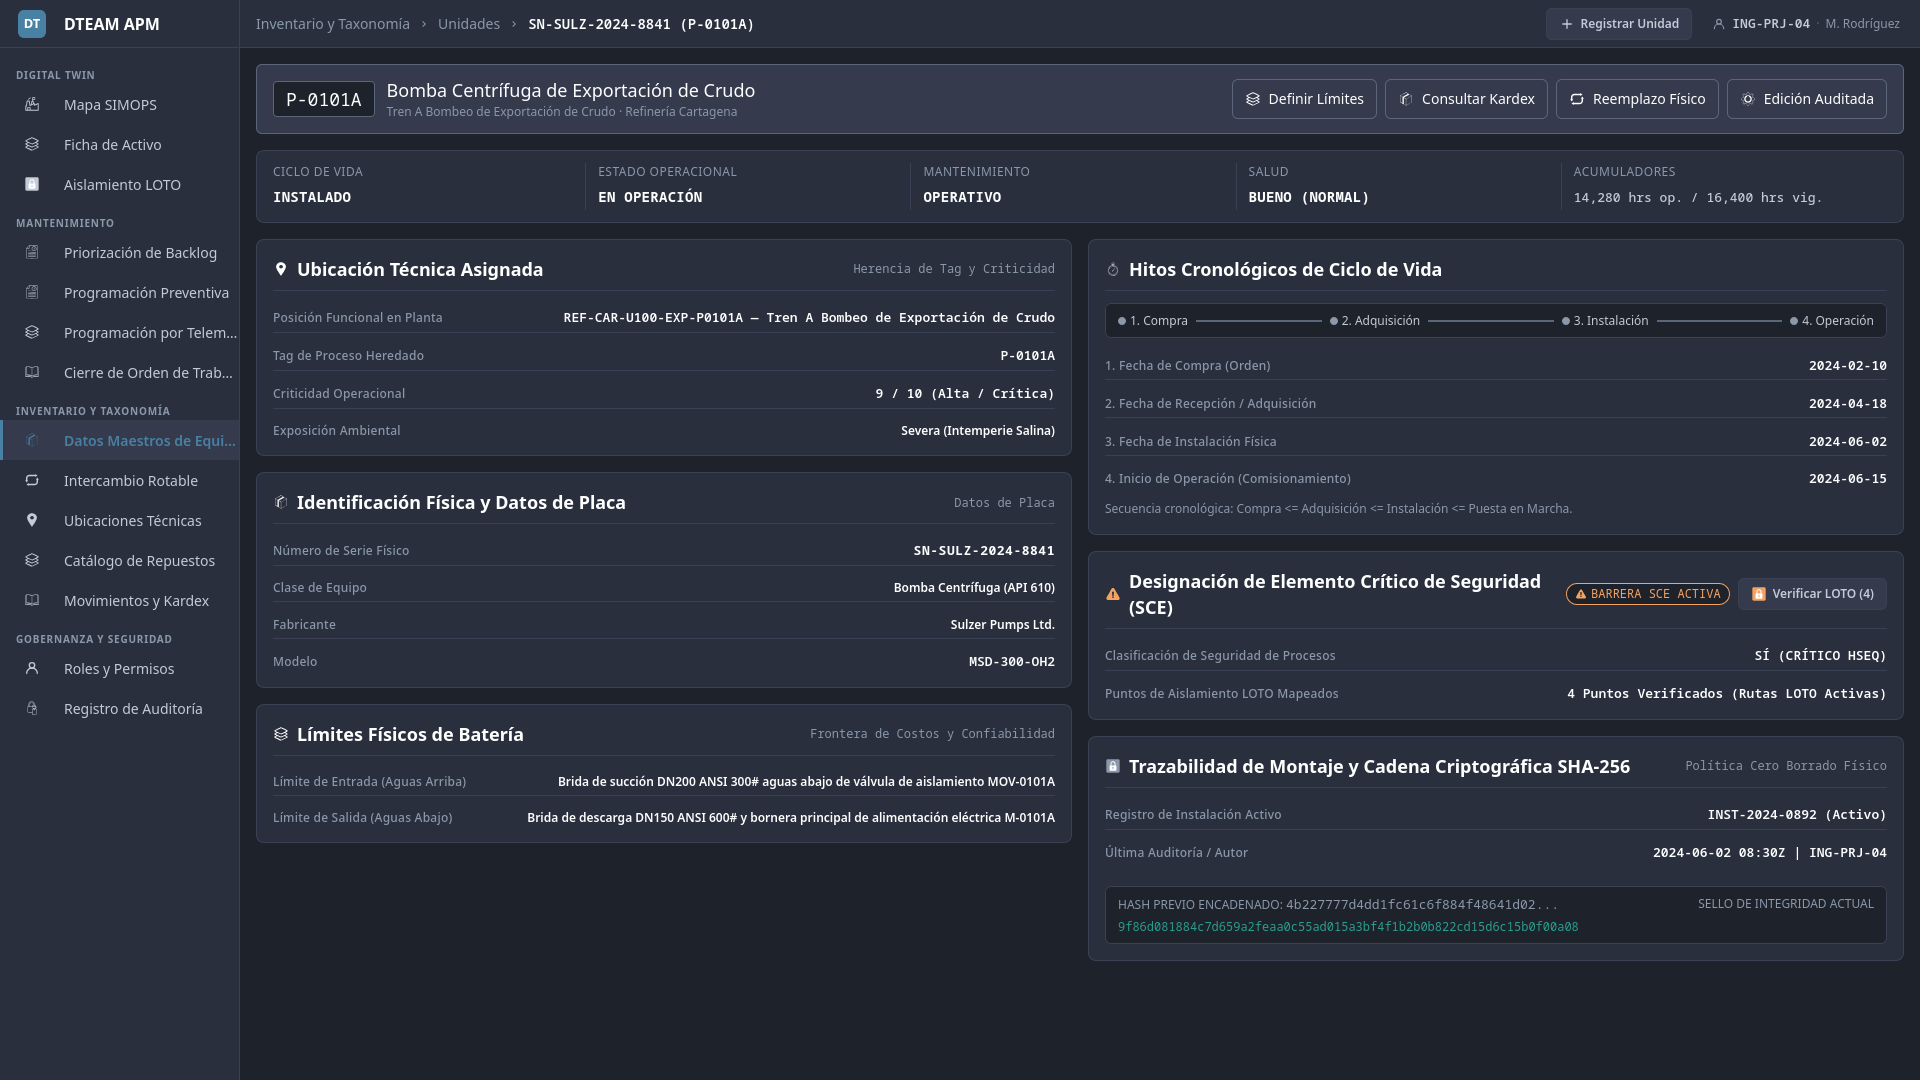
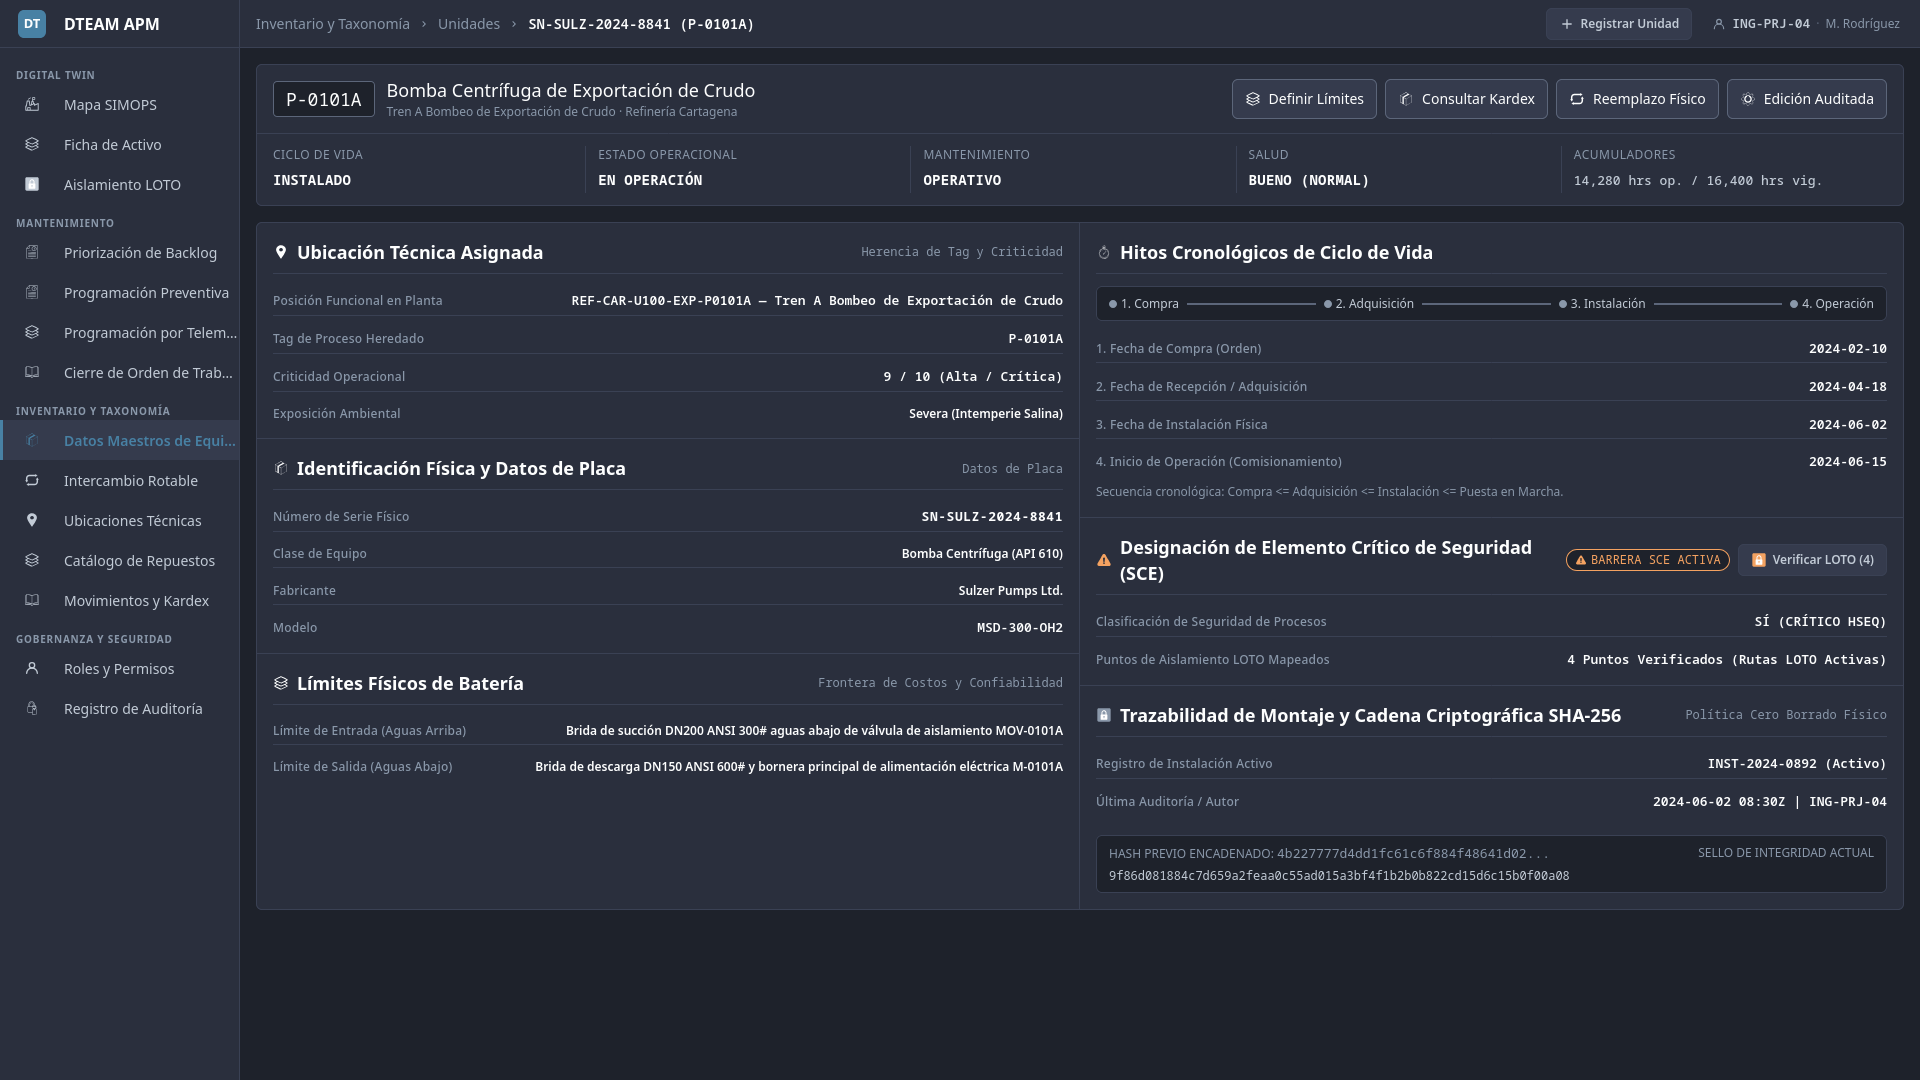
docs(ui-ux): sanitize SCR-INV-005 section 3 inventory and document continuous datasheet layout

diff --git a/ui-ux/screens/inv/SCR-INV-005.md b/ui-ux/screens/inv/SCR-INV-005.md
@@ -54,14 +54,14 @@ status: In Review
 | ID | Control / Component | Visual Role / Content | Semantic Token | Architectural Role & Reference |
 | :--- | :--- | :--- | :--- | :--- |
 | `CMP-01` | Portal Shell & Navigation Sidebar | Collapsible module navigation sidebar and mobile off-canvas navigation drawer | Surface: `--dt-color-surface-card`<br>Border: `--dt-color-border-subtle` | Hosts global module navigation per [DT-UI-NAV-DOC-001](../../DT-UI-NAV-DOC-001.md), highlighting "Equipment Master Data" under the Inventory domain. Responsive behavior in §8. |
-| `CMP-02` | Master Card Header & Mode Switcher | Integrated breadcrumb dropdown selector, mobile menu trigger, user session badge, and workstation action button | Surface: `--dt-color-surface-card`<br>Border: `--dt-color-border-subtle`<br>Typography: `--dt-font-h1` | Integrates the catalog unit selector directly into the active breadcrumb segment (`SN-SULZ-2024-8841 (P-0101A)`) following the seamless VS Code text-link pattern (underline and color transition on hover/focus without container box or chevron) on the left, and on the right: action button with plus icon `[Registrar Unidad]`, and operator session badge (`ING-PRJ-04 · M. Rodríguez`) without loose mode text. Responsive behavior in §8. Detailed in §5.1 and §5.2. |
-| `CMP-03` | Contextual Handoff Action Toolbar | Level 3 cross-screen navigation action bar | Surface: `--dt-color-surface-raised`<br>Border: `--dt-color-border-panel`<br>Radius: `--dt-radius-md` | Exposes normative transitions defined in [DT-UI-NAV-DOC-001 §5](../../DT-UI-NAV-DOC-001.md#5-transition-matrix-and-access-control-rbac): `Define Boundaries` ([SCR-MTTO-029](../mtto/SCR-MTTO-029.md)), `Check Kardex` ([SCR-INV-006](SCR-INV-006.md)), `Physical Replacement` ([SCR-INV-025](SCR-INV-025.md)), and `Audited Edit`. Displays primary asset tag, clean equipment title, and concise functional location hierarchy context without repeating nameplate attributes. Detailed in §5.2. |
-| `CMP-04` | Four-Dimensional Status Strip | Dynamic operational, lifecycle, maintenance, and health status indicators | Surface: `--dt-color-surface-card`<br>Typography: `--dt-font-caption`, `--dt-font-mono-data` | Renders the four orthogonal state dimensions defined in [DT-DM-DOC-001 §2.1](../../../domain-models/class/DT-DM-DOC-001.md#21-state-division-in-equipmentunit) (`CICLO DE VIDA`, `ESTADO OPERACIONAL`, `MANTENIMIENTO`, `SALUD`) with single-line labels, displaying normal states as structured bold monospace text without pill capsule borders (`BADGE-001`), and reserving border pills strictly for anomalous states. Operating and Surveillance hours render alongside in monospace data text (`--dt-font-mono-data`). Detailed in §5.1. |
-| `CMP-05` | Functional Location Linkage Card | Hierarchical Level 5 location selector, storage custody, and inherited process metadata | Surface: `--dt-color-surface-card`<br>Border: `--dt-color-border-subtle`<br>Typography: `--dt-font-mono-data` | Links the Level 6 Equipment Unit to an ISO 14224 Level 5 Functional Location or displays active warehouse custody when in storage. Displays inherited process Tag Number, operational criticality, environmental exposure, and single-occupancy validation state. Detailed in §5.3.3. |
-| `CMP-06` | Nameplate & Taxonomic Identity Card | Physical identification and ISO 14224 class specification fields | Surface: `--dt-color-surface-card`<br>Border: `--dt-color-border-subtle`<br>Text: `--dt-color-text-primary`, `--dt-color-text-muted` | Captures and displays Serial Number (with optical barcode scan trigger on tablet), Manufacturer, Model, and Equipment Class. In Inspection Mode, mandatory asterisks (`*`) and input underline borders (`border-bottom`) are suppressed to avoid pseudo-input confusion per Anti-Badge-Inflation rules. Detailed in §5.3.1. |
+| `CMP-02` | Master Card Header & Mode Switcher | Integrated breadcrumb dropdown selector, mobile menu trigger, user session badge, and workstation action button | Surface: `--dt-color-surface-card`<br>Border: `--dt-color-border-subtle`<br>Typography: `--dt-font-h1` | Integrates the catalog unit selector directly into the active breadcrumb segment using a text-link popover menu pattern on the left, and hosts the onboarding mode switcher and operator session badge on the right. Detailed in §5.1, §5.2, and §8. |
+| `CMP-03` | Contextual Handoff Action Toolbar | Level 3 cross-screen navigation action bar | Surface: `--dt-color-surface-card`<br>Border: `--dt-color-border-subtle`<br>Radius: `--dt-radius-md` | Exposes normative transitions defined in [DT-UI-NAV-DOC-001 §5](../../DT-UI-NAV-DOC-001.md#5-transition-matrix-and-access-control-rbac): `Define Boundaries` ([SCR-MTTO-029](../mtto/SCR-MTTO-029.md)), `Check Kardex` ([SCR-INV-006](SCR-INV-006.md)), `Physical Replacement` ([SCR-INV-025](SCR-INV-025.md)), and `Audited Edit`. Fused with `CMP-04` into a single unified top header sheet separated by a subtle internal divider. Detailed in §5.2. |
+| `CMP-04` | Four-Dimensional Status Strip | Dynamic operational, lifecycle, maintenance, and health status indicators | Surface: `--dt-color-surface-card`<br>Typography: `--dt-font-caption`, `--dt-font-mono-data` | Renders the four orthogonal state dimensions defined in [DT-DM-DOC-001 §2.1](../../../domain-models/class/DT-DM-DOC-001.md#21-state-division-in-equipmentunit) (Lifecycle, Operational, Maintenance, and Health) alongside operating and surveillance hour accumulators inside the unified top header sheet. Detailed in §5.1 and §6. |
+| `CMP-05` | Functional Location Linkage Card | Hierarchical Level 5 location selector, storage custody, and inherited process metadata | Surface: `--dt-color-surface-card`<br>Border: `--dt-color-border-subtle`<br>Typography: `--dt-font-mono-data` | Links the Level 6 Equipment Unit to an ISO 14224 Level 5 Functional Location or displays active warehouse custody when in storage. Displays inherited process Tag Number, operational criticality, environmental exposure, and single-occupancy validation state within the continuous datasheet layout. Detailed in §5.3.3. |
+| `CMP-06` | Nameplate & Taxonomic Identity Card | Physical identification and ISO 14224 class specification fields | Surface: `--dt-color-surface-card`<br>Border: `--dt-color-border-subtle`<br>Text: `--dt-color-text-primary`, `--dt-color-text-muted` | Captures and displays Serial Number (with optical barcode scan trigger on tablet), Manufacturer, Model, and Equipment Class within the continuous engineering datasheet. Detailed in §5.3.1. |
 | `CMP-07` | Physical Battery Limits Card | Upstream and downstream mechanical/electrical boundary definitions | Surface: `--dt-color-surface-card`<br>Border: `--dt-color-border-subtle`<br>Typography: `--dt-font-body-md` | Captures `BoundaryStart` (inlet/suction/supply interface) and `BoundaryEnd` (outlet/discharge/load interface) per ISO 14224 Section 6. Links to detailed sub-tree decomposition in [SCR-MTTO-029](../mtto/SCR-MTTO-029.md). Detailed in §5.3.1. |
-| `CMP-08` | Safety Critical Element (SCE) Governance Card | ISO 45001 safety barrier badge and attestation banner | Surface: `--dt-color-surface-card`<br>Border: `--dt-color-border-subtle` | Controls the `IsSce` safety designation. In Inspection Mode, renders with neutral card border (`--dt-color-border-subtle`), displaying the static `▲ BARRERA SCE ACTIVA` badge and LOTO verification button (`[🔒 Verificar Puntos LOTO (4)]`), hiding the attestation checkbox to prevent alarm fatigue. In Onboarding or Audited Edit mode, expands the ISO 45001 attestation sub-panel with warning border (`--dt-color-alarm-warning`) and mandatory checkbox. Detailed in §5.3.4. |
-| `CMP-09` | Chronological Milestones & Sequence Validator | Four-stage lifecycle date inputs, decommissioning metadata, and progression timeline | Surface: `--dt-color-surface-card`<br>Border: `--dt-color-border-subtle`<br>Timeline: `--dt-color-text-muted`, `--dt-color-border-panel` | Captures and visualizes `PurchaseDate`, `AcquisitionDate`, `InstallationDate`, and `OperationStartDate`. In Inspection Mode, completed historical milestones render in neutral steel gray (`--dt-color-text-muted` and `--dt-color-border-panel`) per ANSI/ISA-101 normal state rules, reserving amber outline (`--dt-color-alarm-warning`) strictly for chronological progression violations (`AF-003`). Detailed in §5.3.2. |
+| `CMP-08` | Safety Critical Element (SCE) Governance Card | ISO 45001 safety barrier badge and attestation banner | Surface: `--dt-color-surface-card`<br>Border: `--dt-color-border-subtle` | Controls the `IsSce` safety designation, LOTO isolation route verification handoff ([SCR-VIS-011](../vis/SCR-VIS-011.md)), and the ISO 45001 safety barrier attestation guard during registration and audited edits. Detailed in §4 and §5.3.4. |
+| `CMP-09` | Chronological Milestones & Sequence Validator | Four-stage lifecycle date inputs, decommissioning metadata, and progression timeline | Surface: `--dt-color-surface-card`<br>Border: `--dt-color-border-subtle`<br>Timeline: `--dt-color-text-muted`, `--dt-color-border-panel` | Captures and visualizes `PurchaseDate`, `AcquisitionDate`, `InstallationDate`, and `OperationStartDate` along a four-stage lifecycle progression bar. Detailed in §5.3.2. |
 | `CMP-10` | Validation & Conflict Alert Banner | Redundant Shape + Color inline diagnostic and confirmation notification banner | Warning: `--dt-color-alarm-warning`<br>Critical: `--dt-color-alarm-critical`<br>Success: `--dt-color-state-success`<br>Radius: `--dt-radius-md` | Displays WCAG 2.1 AA redundant notifications (`#icon-warning`, `#icon-ban`, `#icon-check` + border + text) for missing mandatory fields, duplicate Serial Number conflicts, chronological violations, occupied Functional Location conflicts, or documentary confirmations. Detailed in §5.3. |
 | `CMP-11` | Installation History & Chained Audit Strip | Active mounting timeline and SHA-256 cryptographic seal | Surface: `--dt-color-surface-raised`<br>Border: `--dt-color-border-subtle`<br>Font: `--dt-font-mono-data` | Displays the active installation record (`InstallationId`, `InstalledAtUtc`) and the append-only SHA-256 cryptographic integrity hash chain. Detailed in §5.3.5. |
 | `CMP-12` | Transactional Commit & Governance Footer | Sticky bottom submission bar for registration and audited updates | Surface: `--dt-color-surface-card`<br>Border: `--dt-color-border-panel`<br>Primary Action: `--dt-color-state-info` | Hosts `[Cancel]`, mandatory audit justification input (when updating non-critical attributes in Audited Edit mode), and `[Formalize Equipment Unit]` primary commit button. Detailed in §5.3.6. |
@@ -138,9 +138,10 @@ sequenceDiagram
    * **Define Boundaries (`CMP-03`):** Navigates to [SCR-MTTO-029](../mtto/SCR-MTTO-029.md) (`L3` $\to$ `L3`) passing `EquipmentUnitId` to configure ISO 14224 Level 7 Subunits and Level 8 Maintainable Items within the physical battery limits.
    * **Check Kardex (`CMP-03`):** Navigates to [SCR-INV-006](SCR-INV-006.md) (`L3` $\to$ `L3`) passing `EquipmentUnitId` and `SerialNumber` to inspect chronological spare part movements and rotable custody transactions.
    * **Physical Replacement (`CMP-03`):** Opens [SCR-INV-025](SCR-INV-025.md) (`L3` $\to$ `L4` modal) passing `FunctionalLocationId` and `FunctionalLocationTag` to execute an atomic rotable asset swap.
-4. **Header Space Ergonomics & Redundancy Purge (`CMP-02`, `CMP-03`):**
-   * The catalog unit selector is embedded directly as an active breadcrumb segment (`CMP-02`) using a seamless text-link pattern (pure text with color transition and underline on hover/focus, without container boxes or chevron glyphs), removing redundant header dropdowns and reserving header controls strictly for primary navigation and user identity.
-   * In `CMP-03`, redundant repetition of nameplate attributes (Serial Number, Manufacturer, Model, Equipment Class, which are consolidated in `CMP-05` and `CMP-06`) is suppressed in favor of an executive tag badge, primary equipment title, and functional hierarchy context.
+4. **Header Space Ergonomics, Unified Top Sheet & Continuous Datasheet Layout (`CMP-02` to `CMP-11`):**
+   * The catalog unit selector is embedded directly as an active breadcrumb segment (`CMP-02`) using a seamless text-link pattern (pure text with color transition on hover and underline when selected/open, opening a flat `box-shadow: none` popover menu without container boxes or chevron glyphs), removing redundant header dropdowns and reserving header controls strictly for primary navigation (`[+ Register Equipment Unit]` or `[< Back to Card]`) and user identity.
+   * To prevent "Card Overload" (*Bento-Box Fatigue*), `CMP-03` and `CMP-04` are fused into a single unified top header sheet (`--dt-color-surface-card`, outer border `1px solid --dt-color-border-subtle`) separated internally only by a subtle `1px` horizontal hairline, eliminating redundant "Back" buttons inside the card header.
+   * Beneath the header sheet, `CMP-05` through `CMP-11` (excluding the top alert banner `CMP-10`) are integrated into a single continuous 2-column Engineering Datasheet surface (`--dt-color-surface-card`) divided by `1px solid --dt-color-border-subtle` vertical and horizontal hairlines rather than isolated floating cards.
 
 ---
 
@@ -185,7 +186,7 @@ sequenceDiagram
 * **ANSI/ISA-101 HPHMI 90/10 Grayscale Philosophy ([TR-011](../../../requirements/common/TR-011.md)):** The interface uses neutral grayscale surfaces (`--dt-color-surface-base`, `--dt-color-surface-card`, `--dt-color-surface-raised`) across 90% of the viewport. Saturated colors are reserved strictly for operational anomalies and documentary confirmations:
   * **Critical Red (`--dt-color-alarm-critical`):** Reserved for duplicate Serial Number conflicts (`AF-002`), occupied Functional Location collisions (`AF-004`), and `EquipmentOperationalStatus.Down` or `EquipmentHealthStatus.Critical` states (§7.2.3).
   * **Warning Amber (`--dt-color-alarm-warning`):** Reserved for incomplete mandatory ISO 14224 fields (`AF-001`), chronological sequence violations (`AF-003`), active SCE safety barrier alerts (`AF-005`), and transitional states (`EquipmentLifecycleStatus.Commissioning`, `EquipmentMaintenanceStatus.UnderMaintenance` per §7.2.3).
-  * **Documentary Confirmation Teal (`--dt-color-state-success`):** Used exclusively for verified Serial Number uniqueness, validated four-date chronological coherence in active edit/onboarding forms, and successful atomic registration confirmation (`#icon-check`). Green is never used for normal running status.
+  * **Documentary Confirmation Teal (`--dt-color-state-success`):** Reserved strictly for the top documentary confirmation banner (`CMP-10`, `#icon-check`) upon successful atomic transaction commit (`RegisterEquipmentUnitCommand` / `UpdateEquipmentMasterRecordCommand`). During active Onboarding or Audited Edit entry (`AF-001` to `AF-005`), valid or completed fields remain in silent neutral state (`--dt-color-border-panel`, `--dt-color-text-muted`) without green borders, green checkmarks, or green pills (`VACANTE DISPONIBLE`, `SECUENCIA COHERENTE`), and the SHA-256 digest (`CMP-11`) renders in neutral monospace body text (`--dt-color-text-body`), ensuring that active validation conflicts (`--dt-color-alarm-warning`, `--dt-color-alarm-critical`) never compete against decorative green noise.
   * **Prohibition of Green/Teal on Historical Milestones (`CMP-09`):** Completed historical milestones (Purchase, Acquisition, Installation, Operation) represent past baseline facts, not real-time success transactions. Rendered in neutral steel gray (`--dt-color-text-muted`, `--dt-color-border-panel`), reserving amber/red exclusively for chronological inversions (`AF-003`).
   * **SCE Static Classification De-escalation (`CMP-08`):** Safety Critical Element designation is a permanent design characteristic, not an active process alarm. In Inspection Mode, the card border remains neutral (`--dt-color-border-subtle`), preventing alarm fatigue. Attestation checkboxes are strictly restricted to mutation workflows (Onboarding / Audited Edit).
   * **Read-Only Visual Hygiene (`CMP-05` to `CMP-09`):** In Inspection Mode, all mandatory asterisks (`*`) and field underline borders (`border-bottom`) are suppressed, preventing cognitive confusion with active form inputs.
